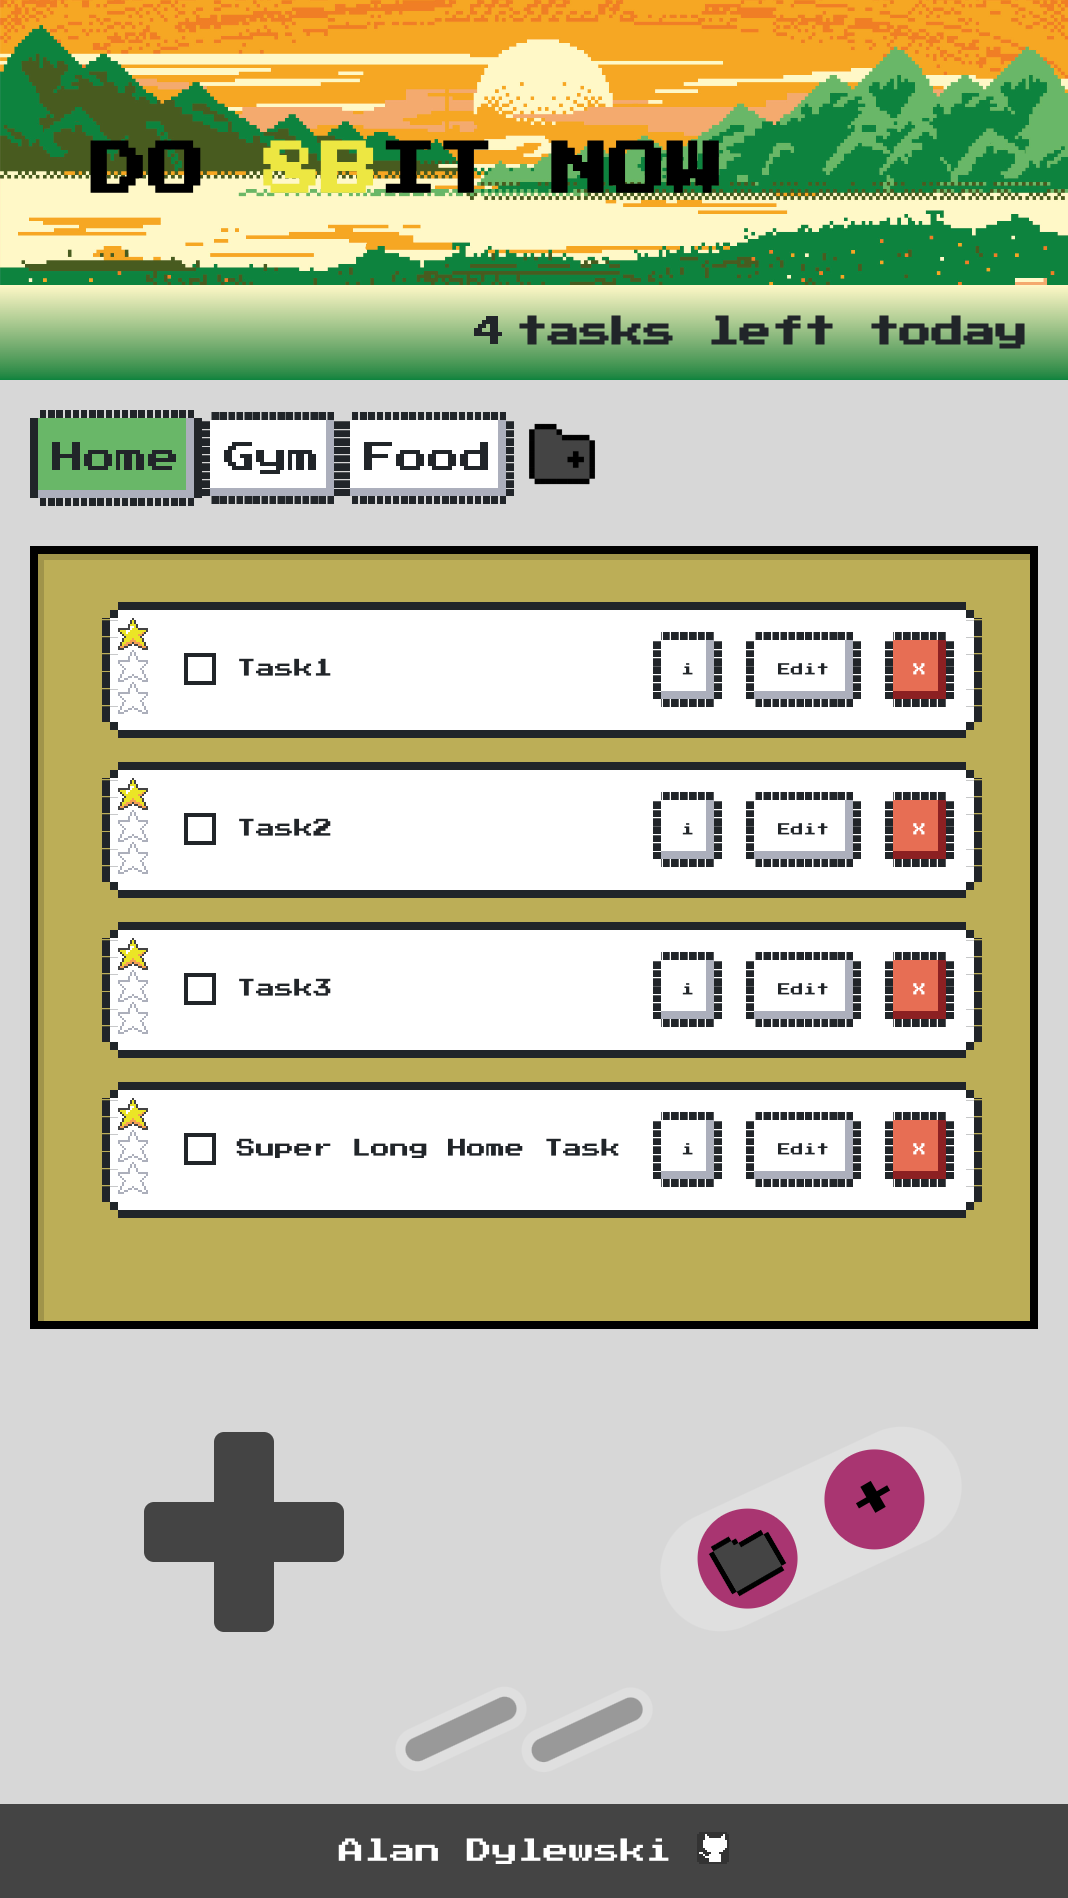
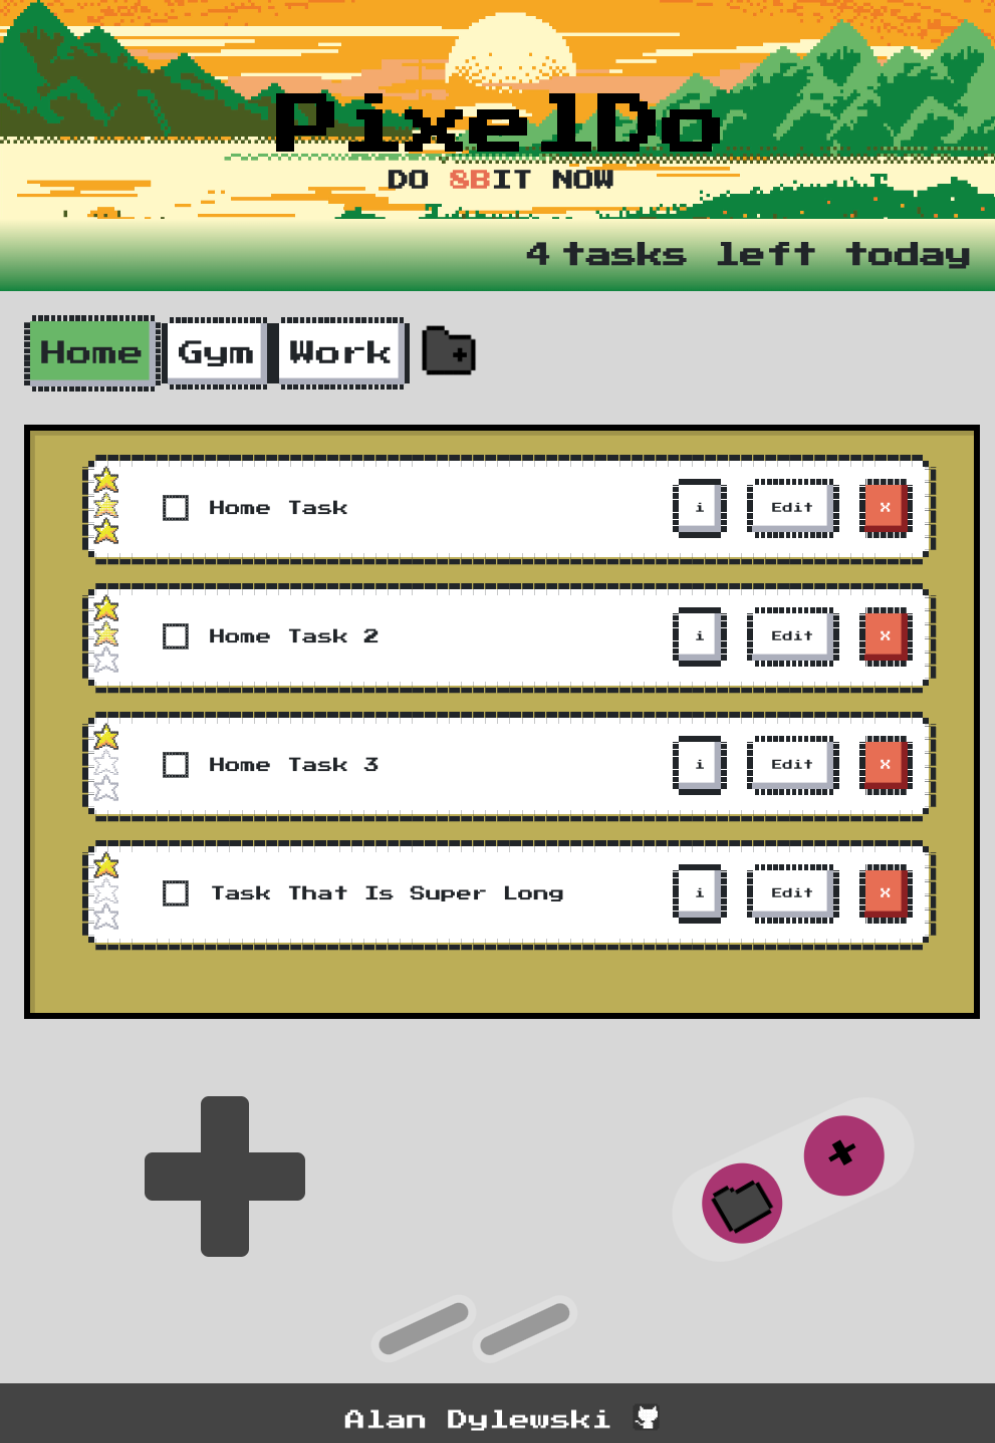
update header title styles

diff --git a/src/style.css b/src/style.css
@@ -20,7 +20,7 @@ body {
 
 /* --- Header --- */
 .header {
-    background-color: #87ccf8;
+    background-color: rgb(255,248,199);
     background-image: url(./assets/images/pixel-art-header.jpg);
     background-repeat: no-repeat;
     background-size: 100%;
@@ -28,22 +28,27 @@ body {
     width: 100%;
     grid-row: 1;
     display: flex;
-    align-items: flex-end;
-    padding-left: 20px;
+    flex-direction: column;
+    align-items: center;
     overflow: hidden;
+    position: relative;
 }
 
 .header-title {
-    font-size: 1.8rem;
-    font-family: "8bit";
+    font-size: 2.5rem;
     color: black;
-    position: relative;
-    top: -25%;
-    left: 5%;
+    position: absolute;
+    bottom: 20%;
+}
+
+.header-motto {
+    font-size: 0.8rem;
+    position: absolute;
+    bottom: 10%;
 }
 
 .pop {
-    color: rgb(237,231,66);
+    color: #E76E54;
 }
 
 .subheader {
@@ -387,7 +392,11 @@ form label {
 /* --- Media Queries --- */
 @media (min-width: 640px){
     .header-title {
-        font-size: 2.5rem;
+        font-size: 2.7rem;
+    }
+
+    .header-motto {
+        font-size: 1rem;
     }
 
     .task__priority {
@@ -415,6 +424,12 @@ form label {
 @media (min-width: 768px){
     .header-title {
         font-size: 3rem;
+        margin: 0 auto;
+    }
+
+    .header-motto {
+        font-size: 1.2rem;
+        margin: 0 auto;
     }
 
     .task-container {

diff --git a/src/template.html b/src/template.html
@@ -8,7 +8,8 @@
 <body>
     <!-- Main Header -->
     <header class="header">
-        <h1 class="header-title">DO <span class="pop">8B</span>IT NOW</h1>
+        <h1 class="header-title">PixelDo</h1>
+        <h6 class="header-motto">DO <span class="pop">8B</span>IT NOW</h6>
     </header>
 
     <!-- Subheader (Task Counter) -->
